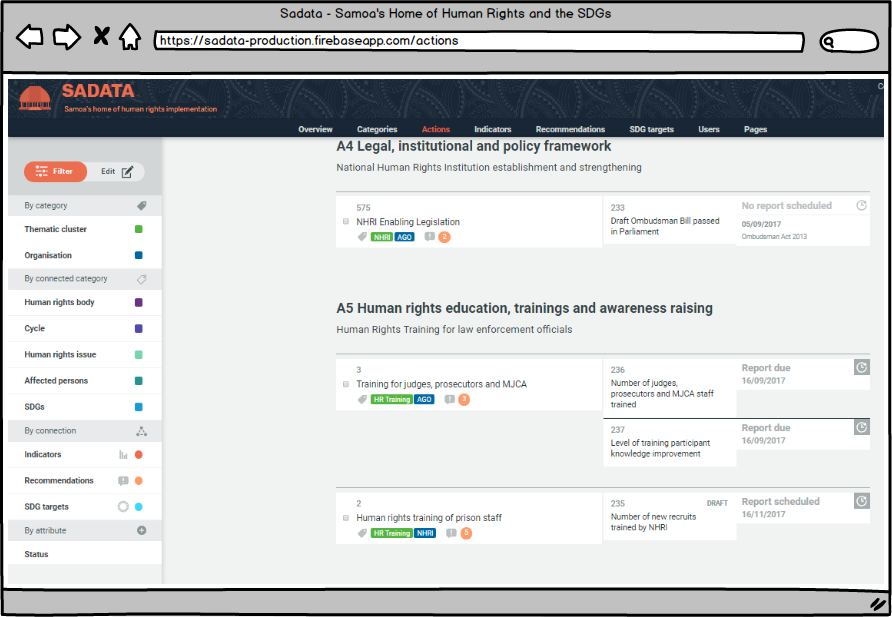
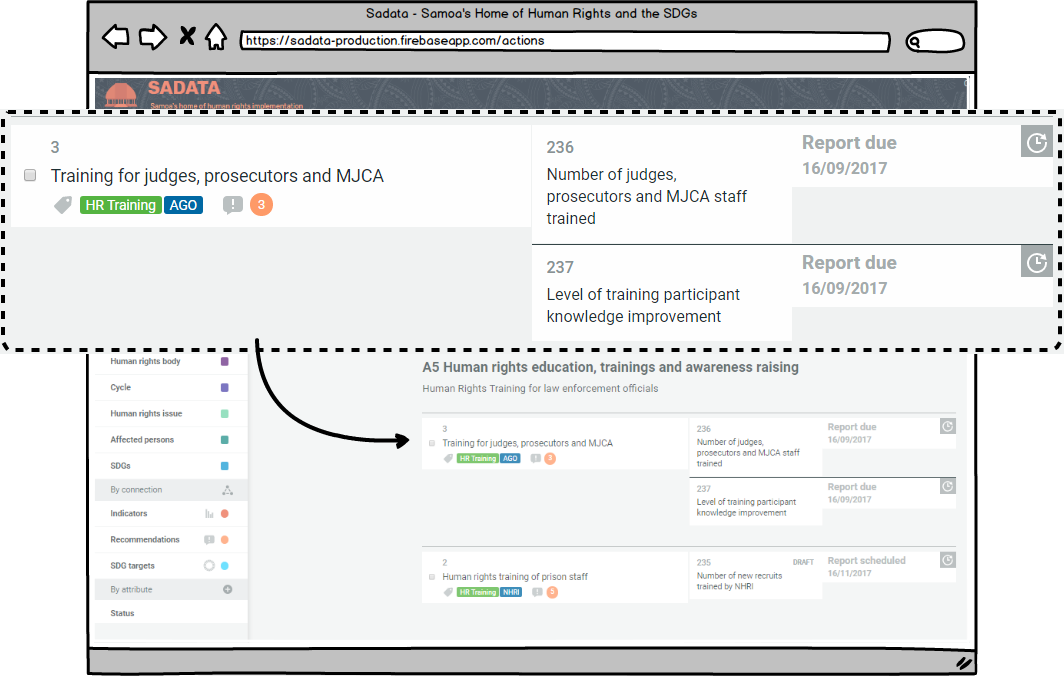
Updates getting-started/users-and-roles.md
Auto commit by GitBook Editor

diff --git a/getting-started/users-and-roles.md b/getting-started/users-and-roles.md
@@ -9,11 +9,11 @@ Sadata is a tool which allows users to organise human rights recommendations and
 Users have to be registered in the following way:
 
 1. The person who wishes to be registered needs to click on the 'Register' link in the top right hand corner of any page within Sadata, as circled above. 
-2. The person will then be asked to complete a registration form, entering their name, email address and a confirmed password \(see image below\) 
+2. The person will then be asked to complete a registration form, entering their name, email address and a confirmed password \(see image below\)
 
-3. Once completed that person will now be a registered Sadata User.
+3. Once completed that person will now be a registered Sadata User
 
-                                                                 ![](/assets/Register form.png)
+                                                      ![](/assets/Register form.png)
 
 \*\* _It is important to note that simply registering on Sadata as described above does not grant that user permission rights to upload information that will automatically appear, or to make access the back-end of the website. For that to happen an '_[_Administrator_](#administrators)_'  must either make that user responsible for the collection of data for one or more indicators \(thus becoming a '_[_Contributor_](#contributors)_'\) or they must change that users role to either '_[_Manager_](#managers)_' or '_[_Administrator_](#administrators)_'. \*\*_
 
@@ -21,7 +21,11 @@ Users have to be registered in the following way:
 
 Contributors are key to the success of data - they are the users who upload information against all of the indicators. A user becomes a contributor when an Administrator allocates one of more indicators to that user. That user then becomes responsible for uploading data at the required time \(set by the Administrator\). The user will receive an email when it is time to upload that information.
 
-![](/assets/Implementation Plan.png)
+![](/assets/Implementation Plan.png)                      _\*\*All information demonstrated is for illustrative purposes only \*\*_
+
+The image above demonstrates what actions, indicators and look like in the Sadata Implementation Plan. In the example highlighted, two indicators have been set for the Action \(training for judges, prosecutors and MJCA\). The final column demonstrates when the information relating to those indicators is due. On that date the user who has been assigned to these indicators - in this case likely the training facilitator - will receive an email with a link requesting that they upload  the information for each. 
+
+Should they fail to do so then they will continue to receive email reminders until the data has been uploaded. Data can be uploaded in any file type format. 
 
 ##### Managers
 
